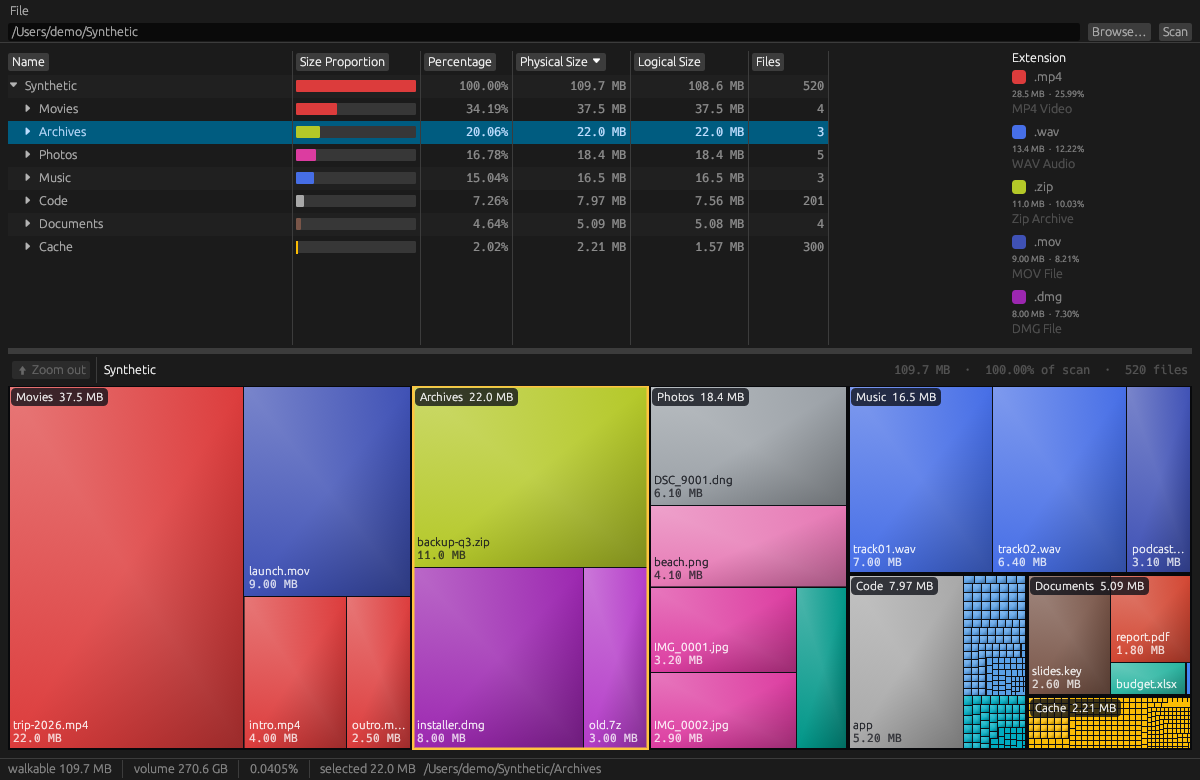
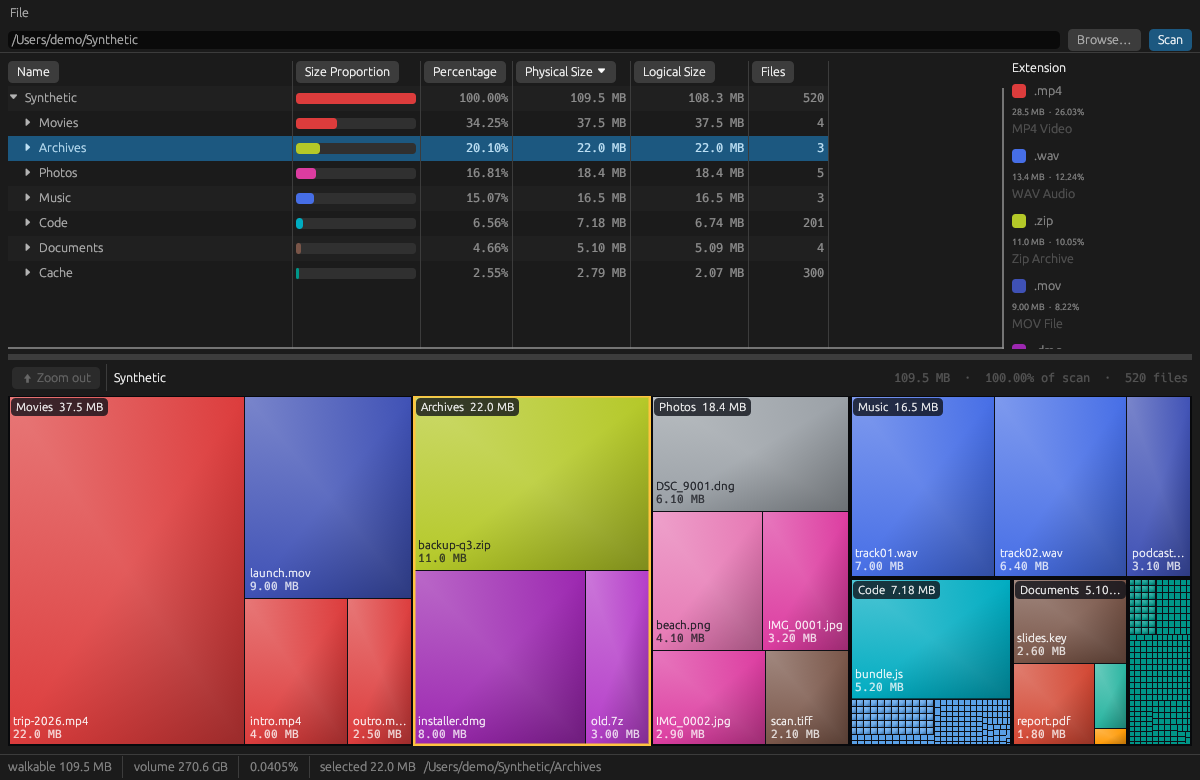
Polish UI states, add synthetic screenshots, rewrite README
Empty/scanning/failed states, rounded controls, accent Scan button.
Table columns, percentage cells and green volume-full cell unchanged.
Screenshots come from a generated synthetic tree and scripts.

Claude-Session: https://claude.ai/code/session_01YYQngMgRHEYQEbYDJbhyfX

Changed region(s): [[0.0, 0.0308, 1.0, 1.0], [0.0, 0.0, 0.7092, 0.3692]]

diff --git a/src/app.rs b/src/app.rs
@@ -179,8 +179,26 @@ pub fn run() -> eframe::Result<()> {
     eframe::run_native(
         APP_TITLE,
         opts,
-        Box::new(|_cc| Ok(Box::new(SpaceTreeApp::new()))),
+        Box::new(|cc| {
+            polish_style(&cc.egui_ctx);
+            Ok(Box::new(SpaceTreeApp::new()))
+        }),
     )
+}
+
+/// Spacing, rounding, and selection color. Layout and information are unchanged.
+fn polish_style(ctx: &egui::Context) {
+    ctx.style_mut(|style| {
+        style.spacing.item_spacing = egui::vec2(8.0, 5.0);
+        style.spacing.button_padding = egui::vec2(9.0, 3.0);
+        style.spacing.interact_size.y = 22.0;
+        let round = egui::CornerRadius::same(4);
+        style.visuals.widgets.inactive.corner_radius = round;
+        style.visuals.widgets.hovered.corner_radius = round;
+        style.visuals.widgets.active.corner_radius = round;
+        style.visuals.selection.bg_fill = Color32::from_rgb(28, 88, 128);
+        style.visuals.selection.stroke = Stroke::new(1.0_f32, Color32::from_rgb(190, 225, 245));
+    });
 }
 
 impl eframe::App for SpaceTreeApp {
@@ -244,7 +262,11 @@ impl eframe::App for SpaceTreeApp {
             ui.horizontal(|ui| {
                 ui.with_layout(egui::Layout::right_to_left(egui::Align::Center), |ui| {
                     if ui
-                        .add_enabled(!scanning, egui::Button::new("Scan"))
+                        .add_enabled(
+                            !scanning,
+                            egui::Button::new(egui::RichText::new("Scan").strong())
+                                .fill(Color32::from_rgb(28, 88, 128)),
+                        )
                         .clicked()
                         || enter
                     {
@@ -268,10 +290,11 @@ impl eframe::App for SpaceTreeApp {
         egui::TopBottomPanel::bottom("status").show(ctx, |ui| {
             ui.horizontal(|ui| match &self.phase {
                 Phase::Scanning(path) => {
+                    ui.add(egui::Spinner::new().size(12.0));
                     ui.label(format!("Scanning… {}", path.display()));
                 }
                 Phase::Failed(e) => {
-                    ui.colored_label(Color32::RED, e);
+                    ui.colored_label(ERROR_FG, e);
                 }
                 Phase::Ready => {
                     if let Some(result) = &self.result {
@@ -320,15 +343,38 @@ impl eframe::App for SpaceTreeApp {
 
         egui::CentralPanel::default().show(ctx, |ui| {
             if !matches!(self.phase, Phase::Ready) {
-                match &self.phase {
-                    Phase::Scanning(path) => {
-                        ui.label(format!("Scanning… {}", path.display()));
+                ui.vertical_centered(|ui| {
+                    ui.add_space((ui.available_height() * 0.32).max(24.0));
+                    match &self.phase {
+                        Phase::Scanning(path) => {
+                            ui.add(egui::Spinner::new().size(28.0));
+                            ui.add_space(8.0);
+                            ui.label(egui::RichText::new("Scanning…").size(18.0).strong());
+                            ui.label(egui::RichText::new(path.display().to_string()).weak());
+                        }
+                        Phase::Failed(e) => {
+                            ui.label(
+                                egui::RichText::new("Scan failed")
+                                    .size(18.0)
+                                    .strong()
+                                    .color(ERROR_FG),
+                            );
+                            ui.colored_label(ERROR_FG, e);
+                        }
+                        Phase::Idle => {
+                            ui.label(egui::RichText::new("SpaceTree").size(22.0).strong());
+                            ui.label(
+                                egui::RichText::new(
+                                    "See which folders and files hold your disk space.",
+                                )
+                                .weak(),
+                            );
+                            ui.add_space(6.0);
+                            ui.label("Enter a folder above (or Browse…) and press Scan.");
+                        }
+                        Phase::Ready => {}
                     }
-                    Phase::Failed(e) => {
-                        ui.colored_label(Color32::RED, e);
-                    }
-                    Phase::Idle | Phase::Ready => {}
-                }
+                });
                 return;
             }
             let full_h = ui.available_height().max(1.0);
@@ -1082,15 +1128,15 @@ fn format_percent(p: f64) -> String {
 
 fn proportion_bar(ui: &mut egui::Ui, size: u64, root_size: u64, key: &str) {
     let width = ui.available_width().max(4.0);
-    let (rect, _) = ui.allocate_exact_size(egui::vec2(width, 12.0), Sense::hover());
+    let (rect, _) = ui.allocate_exact_size(egui::vec2(width, 11.0), Sense::hover());
     let painter = ui.painter();
-    painter.rect_filled(rect, 1.0, Color32::from_gray(55));
+    painter.rect_filled(rect, 3.0, Color32::from_gray(48));
     let fill_w = share_px(size, root_size, width.floor() as u32) as f32;
     if fill_w > 0.0 {
         let mut fill = rect;
         fill.set_width(fill_w.min(rect.width()));
         let rgb = ext_color(key);
-        painter.rect_filled(fill, 1.0, Color32::from_rgb(rgb.r, rgb.g, rgb.b));
+        painter.rect_filled(fill, 3.0, Color32::from_rgb(rgb.r, rgb.g, rgb.b));
     }
 }
 
@@ -1118,6 +1164,7 @@ const MAP_BG: Color32 = Color32::from_rgb(14, 16, 22);
 const FRAME_LINE: Color32 = Color32::from_rgb(8, 9, 12);
 const PILL_BG: Color32 = Color32::from_rgba_premultiplied(10, 12, 18, 200);
 const PILL_HOT: Color32 = Color32::from_rgba_premultiplied(40, 46, 62, 230);
+const ERROR_FG: Color32 = Color32::from_rgb(240, 98, 98);
 const SELECT: Color32 = Color32::from_rgb(255, 196, 64);
 
 /// Merged small items: slate with a fine hatch so it never reads as a file.

diff --git a/scripts/capture-screenshots.py b/scripts/capture-screenshots.py
@@ -1,0 +1,83 @@
+#!/usr/bin/env python3
+"""Capture README screenshots of the egui app under Xvfb with XTest input.
+
+Needs: Xvfb, ImageMagick `import`, python-xlib, a debug/release spacetree binary,
+and a synthetic tree from make-synthetic-tree.py. Linux render, not native macOS.
+
+usage: capture-screenshots.py <spacetree-binary> <synthetic-dir> <out-dir>
+"""
+import os
+import subprocess
+import sys
+import time
+
+from Xlib import X, display
+from Xlib.ext import xtest
+
+W, H = 1200, 780
+DISP = ":97"
+
+
+def shot(out, name):
+    subprocess.run(["import", "-display", DISP, "-window", "root", os.path.join(out, name)], check=True)
+
+
+class Pointer:
+    def __init__(self):
+        self.d = display.Display(DISP)
+
+    def move(self, x, y):
+        xtest.fake_input(self.d, X.MotionNotify, x=x, y=y)
+        self.d.sync()
+        time.sleep(0.15)
+
+    def click(self, x, y, n=1):
+        self.move(x, y)
+        for _ in range(n):
+            xtest.fake_input(self.d, X.ButtonPress, 1)
+            xtest.fake_input(self.d, X.ButtonRelease, 1)
+            self.d.sync()
+            time.sleep(0.08)
+        time.sleep(0.5)
+
+
+def launch(binary, tree, env_extra):
+    env = dict(os.environ, DISPLAY=DISP, LIBGL_ALWAYS_SOFTWARE="1", **env_extra)
+    return subprocess.Popen([binary], env=env, stdout=subprocess.DEVNULL, stderr=subprocess.DEVNULL)
+
+
+def main(binary, tree, out):
+    os.makedirs(out, exist_ok=True)
+    xvfb = subprocess.Popen(["Xvfb", DISP, "-screen", "0", f"{W}x{H}x24", "+extension", "GLX"])
+    time.sleep(1.5)
+    try:
+        p = Pointer()
+        app = launch(binary, tree, {"HOME": os.path.dirname(tree)})
+        time.sleep(3)
+        shot(out, "empty-state.png")
+        app.terminate(); app.wait()
+
+        app = launch(binary, tree, {"SPACETREE_AUTOSCAN": tree})
+        time.sleep(4)
+        p.click(460, 148)  # Archives row (percentage cell: selects without expanding)
+        shot(out, "treemap-table-folder-selection.png")
+        p.move(1000, 640)
+        p.move(1002, 641)  # a second motion event wakes egui so the tooltip appears
+        time.sleep(1.5)
+        shot(out, "treemap-hover-tooltip.png")
+        p.move(1050, 125)
+        time.sleep(0.6)
+        shot(out, "treemap-legend-highlight.png")
+        p.click(688, 407, n=2)  # double-click the Photos label to zoom
+        p.move(600, 20)
+        time.sleep(0.6)
+        shot(out, "treemap-zoom-breadcrumb.png")
+        app.terminate(); app.wait()
+    finally:
+        xvfb.terminate()
+
+
+if __name__ == "__main__":
+    if len(sys.argv) != 4:
+        sys.exit(__doc__)
+    main(*sys.argv[1:])

diff --git a/scripts/make-synthetic-tree.py b/scripts/make-synthetic-tree.py
@@ -1,0 +1,45 @@
+#!/usr/bin/env python3
+"""Create the synthetic demo tree used for README screenshots (about 110 MB).
+
+usage: make-synthetic-tree.py <dir>   (e.g. /Users/demo/Synthetic)
+File names and sizes are invented; nothing is read from the real filesystem.
+"""
+import os
+import sys
+
+MB = 1_000_000
+TREE = {
+    "Movies": [("trip-2026.mp4", 22 * MB), ("launch.mov", 9 * MB), ("intro.mp4", 4 * MB), ("outro.mp4", 2.5 * MB)],
+    "Archives": [("backup-q3.zip", 11 * MB), ("installer.dmg", 8 * MB), ("old.7z", 3 * MB)],
+    "Photos": [("DSC_9001.dng", 6.1 * MB), ("beach.png", 4.1 * MB), ("IMG_0001.jpg", 3.2 * MB), ("IMG_0002.jpg", 2.9 * MB), ("scan.tiff", 2.1 * MB)],
+    "Music": [("track01.wav", 7 * MB), ("track02.wav", 6.4 * MB), ("podcast.mp3", 3.1 * MB)],
+    "Documents": [("slides.key", 2.6 * MB), ("report.pdf", 1.8 * MB), ("budget.xlsx", 0.55 * MB), ("notes.docx", 0.14 * MB)],
+}
+
+
+def write(path, size):
+    with open(path, "wb") as f:
+        f.write(b"\0" * int(size))
+
+
+def main(root):
+    for folder, files in TREE.items():
+        d = os.path.join(root, folder)
+        os.makedirs(d, exist_ok=True)
+        for name, size in files:
+            write(os.path.join(d, name), size)
+    code = os.path.join(root, "Code", "app")
+    os.makedirs(code, exist_ok=True)
+    write(os.path.join(root, "Code", "app", "bundle.js"), 5.2 * MB)
+    for i in range(200):
+        write(os.path.join(root, "Code", f"mod_{i:03}.rs"), 4_000 + (i * 37) % 9_000)
+    cache = os.path.join(root, "Cache")
+    os.makedirs(cache, exist_ok=True)
+    for i in range(300):
+        write(os.path.join(cache, f"blob_{i:03}.tmp"), 4_096 + (i * 91) % 6_000)
+
+
+if __name__ == "__main__":
+    if len(sys.argv) != 2:
+        sys.exit(__doc__)
+    main(sys.argv[1])

diff --git a/README.md b/README.md
@@ -1,8 +1,12 @@
 # SpaceTree
 
-SpaceTree is a macOS disk usage app. You pick a folder or a disk. The window lists each child and draws a treemap of the same allocated bytes.
+SpaceTree is a macOS disk usage app in the spirit of WinDirStat: pick a folder or a whole disk, and see at a glance what is eating your space. A sortable table and a treemap show the same allocated bytes, so the biggest offenders stand out in seconds.
 
-![CG Agent Harness running on macOS](/screenshots/treemap-table-folder-selection.png)
+**Use it when** your disk is nearly full and you need to know which folder, file type, or forgotten download is responsible, before you decide what to remove. SpaceTree is read-only: it never deletes anything, and scans stay on your machine (no uploads, no telemetry).
+
+![SpaceTree showing a synthetic folder: table, extension legend, and treemap](screenshots/treemap-table-folder-selection.png)
+
+More captures are in [`screenshots/`](screenshots/). They use a synthetic tree, not real files.
 
 - The table columns are Name, Size Proportion, Percentage, Physical Size, Logical Size, and Files. Percentage is that row's allocated bytes divided by the scan root. The scan root is 100%, except when scanning `/` or another local macOS volume root: only its Percentage cell is green and shows `~N% full`, based on volume capacity minus available space. Child rows and folder scans keep their scan-share percentages.
 - The treemap draws one rectangle per file. Area is allocated size. Color is the file extension. Each folder is outlined around its files; large folders carry a name and size label, and large files show their name and size. Hover a tile for its size, kind, and share of the view and of the scan. Double-click a folder (or its label) to zoom in. Double-click a file to reveal it in Finder. Right-click a table row, treemap tile, or folder label to reveal it in Finder or copy its path. The bar above the map shows the path you are in; click any part of it to jump back, or press Esc or Zoom out to go up one level. A single click selects a row and does not zoom; selecting a folder in the table outlines it in the map.
@@ -50,12 +54,6 @@ python3 scripts/bench-scan.py /path/to/baseline/spacetree /path/to/candidate/spa
 ```
 
 The script creates and removes a temporary tree of 6,000 files, warms each binary once, alternates seven timed CLI scans, and rejects differing root byte totals or row counts. The median includes process startup and report formatting. This local fixture does not exercise USB or network-volume behavior.
-
-## Continuous Development (kinda; im sure df can be formatted and used with fancy flags to look all pretty but I mean unless im literally using linux without x why would I act like thats better. Research that later to make sure im not missing out on things that are better than the GUI habit I keep vibe coding from windows concepts (shoutout to WinDirStat):
-
-- make default zoom and column widths closer to what I'd set it to myself
-- See if theres a way to increase speed of scan without shortcuts
-- Resiliency testing for non internal drive (usb/network share/etc ...)
 
 ## Where the code lives
 

diff --git a/screenshots/README.md b/screenshots/README.md
@@ -1,14 +1,21 @@
 # Screenshots
 
-`SpaceTree-9.28.26.jpeg` is the historical macOS screenshot from the README.
+`SpaceTree-9.28.26.jpeg` is the historical macOS screenshot. `before-treemap-main.png` shows an earlier treemap (unlabeled tiles, binary sizes labeled MB).
 
-The PNGs below show the treemap redesign on a synthetic tree (`/Users/demo/Synthetic`, about 110 MB in 520 files). They are egui renders under Xvfb on Linux, captured with XTest pointer input, not native macOS captures. Fonts and layout match egui on macOS; window chrome does not.
+The other PNGs are renders of the current UI on a synthetic tree (`/Users/demo/Synthetic`, about 110 MB in 520 generated files). They are egui renders under Xvfb on Linux with XTest pointer input, not native macOS captures: fonts and layout match egui on macOS, window chrome does not. Regenerate them with:
+
+```bash
+python3 scripts/make-synthetic-tree.py /Users/demo/Synthetic
+python3 scripts/capture-screenshots.py target/debug/spacetree /Users/demo/Synthetic screenshots
+```
+
+(needs Xvfb, ImageMagick `import`, and `pip install python-xlib`)
 
 | File | Shows |
 | --- | --- |
-| `before-treemap-main.png` | `main` before the change: unlabeled tiles, binary sizes labeled MB (104.6 "MB"). |
-| `treemap-hover-tooltip.png` | Folder outlines and labels, file names and sizes, hover tooltip. Decimal units (109.7 MB, as Finder shows). |
-| `treemap-legend-highlight.png` | Hovering `.wav` in the legend dims every other extension. |
+| `empty-state.png` | First launch: what the app does and how to start. |
 | `treemap-table-folder-selection.png` | Selecting `Archives` in the table outlines it in the map. |
+| `treemap-hover-tooltip.png` | Folder outlines and labels, file names and sizes, hover tooltip. |
+| `treemap-legend-highlight.png` | Hovering `.mp4` in the legend dims every other extension. |
 | `treemap-zoom-breadcrumb.png` | Double-clicking the `Photos` label zooms in; the breadcrumb shows `Synthetic › Photos`. |
 | `app-icon-256.png` | The app icon (`assets/icon.svg`) at 256 px. |
